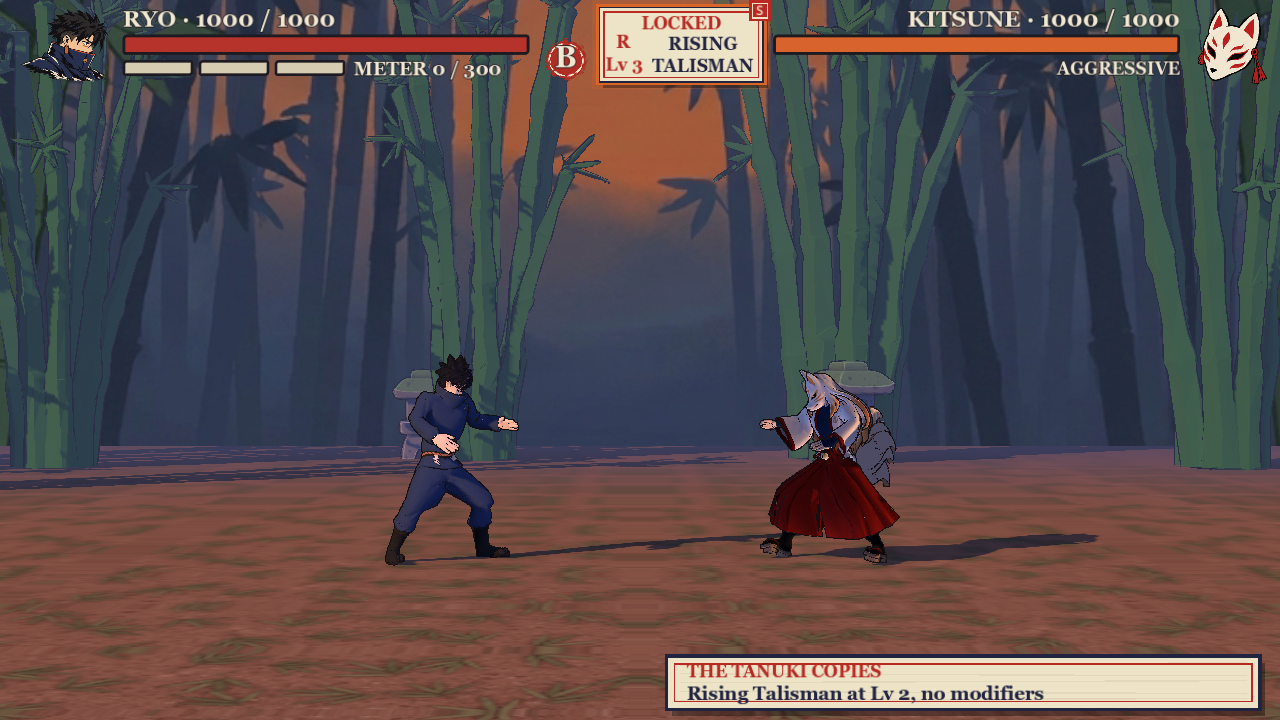
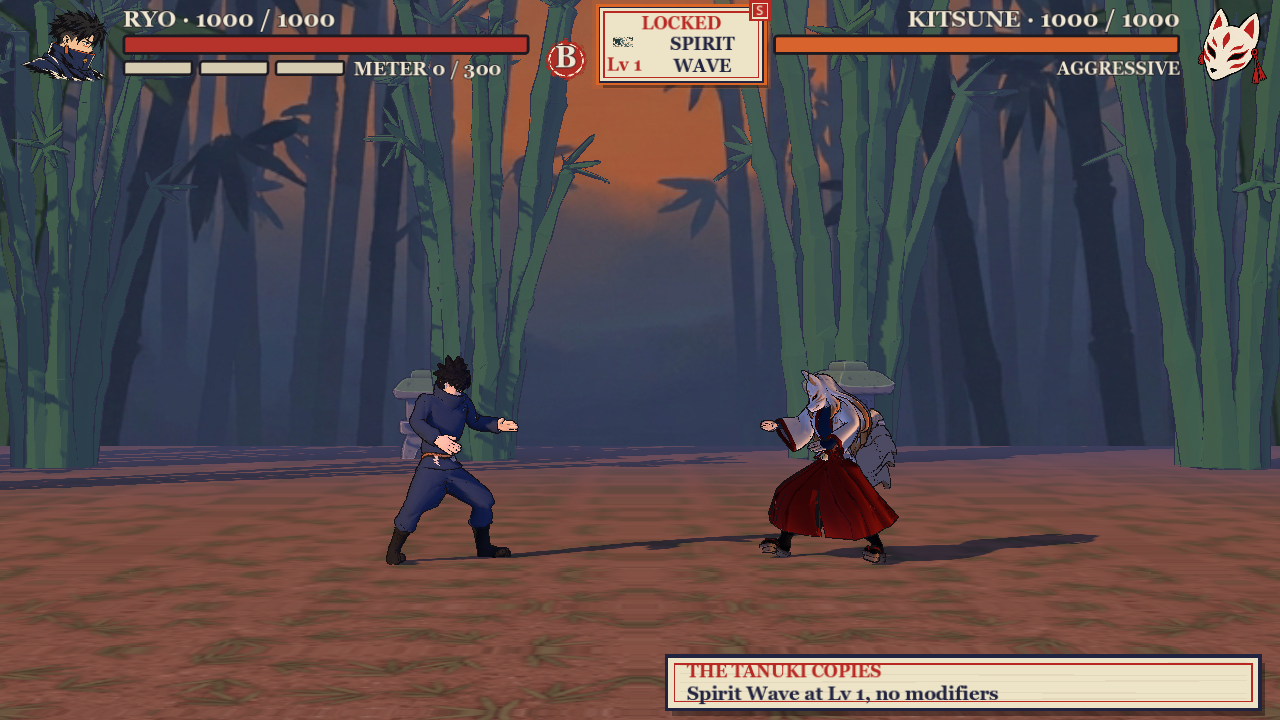
YOK-118-am6-copy-talisman: HUD copy talisman only in the Tanuki fight (AM6, T6)

diff --git a/game/tests/FightHudTests.cs b/game/tests/FightHudTests.cs
@@ -198,15 +198,14 @@ public static class FightHudTests
  """;
 
  [Test]
- public static void CopyTarget_NoRun_ShowsTheGreyFallback(Node runner)
+ public static void CopyTarget_NoRun_IsHidden(Node runner)
  {
   var hud = Load(runner);
   try
   {
    hud.RunView = new SessionHudRunView(null);
    hud.Refresh(new Match());
-   Assert.Equal(CopyTalismanState.None, hud.CopyTarget.State, "no run, no target");
-   Assert.Equal("-", hud.CopyTarget.MoveName, "dash");
+   Assert.True(!hud.CopyTarget.Visible, "AM6, T6: no run, no talisman");
    Assert.True(!hud.TwistStripVisible, "no strip without a run");
   }
   finally { hud.Free(); }
@@ -219,10 +218,10 @@ public static class FightHudTests
   try
   {
    var run = RunState.NewRun(AbilityPool.LoadFixtures(Root));
-   var view = new FakeRunView();
+   var view = new FakeRunView { InTanukiFight = true };
    hud.RunView = view;
    void Show() { view.Copy = CopyRule.Target(run); hud.Refresh(new Match()); }
-   hud.RunView = new FakeRunView { Copy = new CopyTarget(SpecialSlot.A, Named("Spirit Wave"), 1) };
+   hud.RunView = new FakeRunView { InTanukiFight = true, Copy = new CopyTarget(SpecialSlot.A, Named("Spirit Wave"), 1) };
    hud.Refresh(new Match());
    Assert.Equal("SPIRIT WAVE", hud.CopyTarget.MoveName, "a short name is shown exactly");
    hud.RunView = view; hud.CopyTarget.Reset();
@@ -259,7 +258,7 @@ public static class FightHudTests
    Assert.True(s.Enter("a").Ok, "enter a");
    s.Run.LevelUp(SpecialSlot.B); s.Run.LevelUp(SpecialSlot.B); // Lv 3: the copy runs the Lv 2 tuning only (T4)
    hud.Refresh(new Match());
-   Assert.Equal(CopyTalismanState.Defined, hud.CopyTarget.State, "before the lock");
+   Assert.True(!hud.CopyTarget.Visible, "AM6: a yokai duel before the lock shows no talisman");
    Assert.True(!hud.TwistStripVisible, "a plain duel has no strip");
    s.WinFight(700); s.CompleteNode();
    Assert.True(s.Enter("den").Ok, "enter the Tanuki's node");
@@ -328,7 +327,7 @@ public static class FightHudTests
    var font = label.GetThemeFont("font");
    foreach (string n in names)
    {
-    hud.RunView = new FakeRunView { Copy = new CopyTarget(SpecialSlot.A, Named(n), 1) };
+    hud.RunView = new FakeRunView { InTanukiFight = true, Copy = new CopyTarget(SpecialSlot.A, Named(n), 1) };
     hud.Refresh(new Match());
     Assert.Equal(CopyTalisman.NameSize, label.GetThemeFontSize("font_size"), $"{n}: kept at the 720p floor size");
     Assert.True(label.GetLineCount() <= 2, $"{n}: wraps to {label.GetLineCount()} lines");
@@ -341,7 +340,7 @@ public static class FightHudTests
  }
 
  [Test]
- public static void CopyTarget_RestartAndLevelUp_DoNotLeaveAStaleToast(Node runner)
+ public static void CopyTarget_YokaiFightLevelUpsAndRestart_StayHiddenWithNoToast(Node runner)
  {
   var scene = GD.Load<PackedScene>("res://scenes/fight.tscn").Instantiate<FightScene>();
   scene.ExternalDrive = true;
@@ -351,21 +350,87 @@ public static class FightHudTests
    var hud = scene.GetNode<FightHud>("Hud");
    scene.Step(FighterInput.None, FighterInput.None);
    var t = hud.CopyTarget;
-   Assert.Equal(CopyTalismanState.Defined, t.State, "the default view reads the hosting scene's own session");
+   Assert.True(!t.Visible, "AM6, T6: the default view over a yokai fight hides the talisman");
    scene.DemoRun.LevelUp(SpecialSlot.B);
    scene.Step(FighterInput.None, FighterInput.None);
-   Assert.Equal("changed", t.LastEvent, "another special overtakes it");
-   Assert.True(t.ToastText.Length > 0, "toast up");
    scene.DemoRun.LevelUp(SpecialSlot.B);
    scene.Step(FighterInput.None, FighterInput.None);
-   Assert.Equal("levelled", t.LastEvent, "same move, next level");
-   Assert.Equal("", t.ToastText, "a level-up clears the older toast");
+   Assert.True(!t.Visible, "still hidden after level-ups");
+   Assert.Equal("", t.ToastText, "no 'copy target changed' toast in a yokai fight");
+   Assert.Equal("", t.LastEvent, "nothing animates");
    scene.RestartRun();
    scene.Step(FighterInput.None, FighterInput.None);
-   Assert.Equal("", t.LastEvent, "a restart is a fresh first show, not a change");
-   Assert.Equal("", t.ToastText, "and carries no toast");
+   Assert.True(!t.Visible && t.ToastText == "", "a restart changes nothing");
   }
   finally { scene.Free(); }
+ }
+
+ // AM6, T6: the HUD's copy-target talisman shows only in the Tanuki fight.
+ [Test]
+ public static void CopyTarget_HiddenInAYokaiFight_EvenWithATarget(Node runner)
+ {
+  var hud = Load(runner);
+  try
+  {
+   var copy = CopyRule.Target(RunState.NewRun(AbilityPool.LoadFixtures(Root)));
+   hud.RunView = new FakeRunView { Copy = copy };
+   hud.Refresh(new Match());
+   Assert.True(!hud.CopyTarget.Visible, "AM6: a yokai fight shows no copy target");
+   Assert.True(!hud.TwistStripVisible, "and no strip");
+  }
+  finally { hud.Free(); }
+ }
+
+ [Test]
+ public static void CopyTarget_HiddenInAnElderFight_EvenWithATarget(Node runner)
+ {
+  var hud = Load(runner);
+  try
+  {
+   var copy = CopyRule.Target(RunState.NewRun(AbilityPool.LoadFixtures(Root)));
+   hud.RunView = new FakeRunView { ElderFight = true, Copy = copy };
+   hud.Refresh(new Match());
+   Assert.True(!hud.CopyTarget.Visible, "AM6: an elder fight shows no copy target");
+   Assert.True(hud.TwistStripVisible && hud.TwistKicker == "ELDER TWIST", "the elder twist reminder (Y3) still shows");
+  }
+  finally { hud.Free(); }
+ }
+
+ [Test]
+ public static void CopyTarget_ShownLockedInTheTanukiFight(Node runner)
+ {
+  var hud = Load(runner);
+  try
+  {
+   var copy = CopyRule.Target(RunState.NewRun(AbilityPool.LoadFixtures(Root)))!;
+   hud.RunView = new FakeRunView { InTanukiFight = true, CopyLocked = true, Copy = copy };
+   hud.Refresh(new Match());
+   Assert.True(hud.CopyTarget.Visible, "AM6: shown in the Tanuki fight");
+   Assert.Equal(CopyTalismanState.Locked, hud.CopyTarget.State, "T1: the locked copy");
+   Assert.True(IsNameOrItsFit(copy.Data.Name, hud.CopyTarget.MoveName), "names the locked move: " + hud.CopyTarget.MoveName);
+   Assert.Equal($"Lv {copy.Level}", hud.CopyTarget.LevelText, "its level");
+   // leaving the Tanuki fight hides it again
+   hud.RunView = new FakeRunView { Copy = copy };
+   hud.Refresh(new Match());
+   Assert.True(!hud.CopyTarget.Visible, "hidden once the fight is not the Tanuki's");
+  }
+  finally { hud.Free(); }
+ }
+
+ [Test]
+ public static void CopyTarget_HiddenWithANullRun(Node runner)
+ {
+  var hud = Load(runner);
+  try
+  {
+   hud.RunView = new SessionHudRunView(null);
+   hud.Refresh(new Match());
+   Assert.True(!hud.CopyTarget.Visible, "no run: no talisman, no placeholder");
+   hud.RunView = null;
+   hud.Refresh(new Match());
+   Assert.True(!hud.CopyTarget.Visible, "no view at all: no talisman");
+  }
+  finally { hud.Free(); }
  }
 
  [Test]
@@ -375,7 +440,7 @@ public static class FightHudTests
   try
   {
    var run = RunState.NewRun(AbilityPool.LoadFixtures(Root));
-   var view = new FakeRunView { Copy = CopyRule.Target(run) };
+   var view = new FakeRunView { InTanukiFight = true, Copy = CopyRule.Target(run) };
    hud.RunView = view;
    hud.Refresh(new Match());
    run.LevelUp(SpecialSlot.B); view.Copy = CopyRule.Target(run);
@@ -448,7 +513,7 @@ public static class FightHudTests
   {
    var label = Find<Label>(hud, "MoveName");
    label.Size = Vector2.Zero;
-   hud.RunView = new FakeRunView { Copy = new CopyTarget(SpecialSlot.A, Named("Thunderstrike Wave"), 1) };
+   hud.RunView = new FakeRunView { InTanukiFight = true, Copy = new CopyTarget(SpecialSlot.A, Named("Thunderstrike Wave"), 1) };
    hud.Refresh(new Match()); // must return
    Assert.True(hud.CopyTarget.MoveName.Length > 0, "still shows a name");
   }

diff --git a/game/tests/probes/CopyHudProbes.cs b/game/tests/probes/CopyHudProbes.cs
@@ -78,7 +78,7 @@ public static class CopyHudProbes
    var hits = new List<string>();
    foreach (string n in AllNames())
    {
-    hud.RunView = new View { CopyLocked = true, Copy = new CopyTarget(SpecialSlot.A, Named(n), 1) };
+    hud.RunView = new View { InTanukiFight = true, CopyLocked = true, Copy = new CopyTarget(SpecialSlot.A, Named(n), 1) };
     hud.Refresh(new Match());
     Assert.Equal(CopyTalismanState.Locked, t.State, "locked");
     var boxes = NameBoxes(label);
@@ -185,17 +185,18 @@ public static class CopyHudProbes
    var run = RunState.NewRun(AbilityPool.LoadFixtures(Root));
    var states = new (string, View)[]
    {
-    ("none", new View()),
-    ("defined", new View { Copy = CopyRule.Target(run) }),
-    ("locked", new View { Copy = CopyRule.Target(run), CopyLocked = true }),
+    ("none", new View { InTanukiFight = true }),
+    ("defined", new View { InTanukiFight = true, Copy = CopyRule.Target(run) }),
+    ("locked", new View { InTanukiFight = true, Copy = CopyRule.Target(run), CopyLocked = true }),
     ("tanuki", new View { Copy = CopyRule.Target(run), CopyLocked = true, InTanukiFight = true }),
     ("elder", new View { ElderFight = true }),
    };
    foreach (var (name, v) in states)
    {
     hud.RunView = v; hud.Refresh(new Match());
-    Assert.True(t.Visible && t.Modulate.A >= 1f && t.SelfModulate.A >= 1f, $"{name}: plate drawn opaque");
-    foreach (string n in new[] { "Caption", "MoveName", "Level", "IconLetter" })
+    if (name == "elder") Assert.True(!t.Visible, "elder: the talisman is hidden (AM6, T6)");
+    else Assert.True(t.Visible && t.Modulate.A >= 1f && t.SelfModulate.A >= 1f, $"{name}: plate drawn opaque");
+    if (name != "elder") foreach (string n in new[] { "Caption", "MoveName", "Level", "IconLetter" })
     {
      var l = Find<Label>(t, n);
      if (!l.Visible) continue;
@@ -219,7 +220,7 @@ public static class CopyHudProbes
   var hud = Load(runner);
   try
   {
-   hud.RunView = new View(); hud.Refresh(new Match());
+   hud.RunView = new View { InTanukiFight = true }; hud.Refresh(new Match());
    var cap = Find<Label>(hud.CopyTarget, "Caption");
    float ratio = Contrast(cap.GetThemeColor("font_color"), new Color(0.6f, 0.58f, 0.5f));
    float onPaper = Contrast(cap.GetThemeColor("font_color"), FightHud.Paper);
@@ -241,7 +242,7 @@ public static class CopyHudProbes
    var worst = new List<string>();
    foreach (string n in new[] { "Thunderclap", "Thunderstrike", "Hundredfold", "Wandering Thunderstrike", "Shapeshifter", "Pandemonium", "Tsukuyomi-Barrage", "Supercalifragilistic" })
    {
-    hud.RunView = new View { Copy = new CopyTarget(SpecialSlot.A, Named(n), 1) };
+    hud.RunView = new View { InTanukiFight = true, Copy = new CopyTarget(SpecialSlot.A, Named(n), 1) };
     hud.Refresh(new Match());
     int size = label.GetThemeFontSize("font_size");
     if (size * 720f / 1080 < 17) worst.Add($"{n} -> {size}px ({size * 720f / 1080:F1} at 720p)");
@@ -300,7 +301,7 @@ public static class CopyHudProbes
     Assert.Equal(twin.StateHash(), watched.StateHash(), step + ": watched run equals the unwatched twin");
    }
    hud.Refresh(new Match());
-   Assert.Equal(CopyTalismanState.Defined, hud.CopyTarget.State, "defined at start");
+   Assert.True(!hud.CopyTarget.Visible, "AM6: hidden outside the Tanuki fight, so no copy toast or pulse can fire on the way");
    Both(s => s.Enter("a"), "enter a");
    Both(s => s.Run.LevelUp(SpecialSlot.A), "level A (levelled or changed)");
    Both(s => s.Run.LevelUp(SpecialSlot.B), "level B");
@@ -469,7 +470,7 @@ public static class CopyHudProbes
    foreach (string n in names)
    foreach (bool locked in new[] { false, true })
    {
-    hud.RunView = new View { CopyLocked = locked, Copy = new CopyTarget(SpecialSlot.A, Named(n), 1) };
+    hud.RunView = new View { InTanukiFight = true, CopyLocked = locked, Copy = new CopyTarget(SpecialSlot.A, Named(n), 1) };
     hud.Refresh(new Match());
     string shown = label.Text;
     string tag = $"'{n}' locked={locked} -> '{shown.Replace("\n", "|")}'";
@@ -498,7 +499,7 @@ public static class CopyHudProbes
    var label = Find<Label>(hud.CopyTarget, "MoveName");
    foreach (string n in new[] { string.Concat(System.Linq.Enumerable.Repeat("\U0001D504", 30)), string.Concat(System.Linq.Enumerable.Repeat("é", 30)) })
    {
-    hud.RunView = new View { Copy = new CopyTarget(SpecialSlot.A, Named(n), 1) };
+    hud.RunView = new View { InTanukiFight = true, Copy = new CopyTarget(SpecialSlot.A, Named(n), 1) };
     hud.Refresh(new Match());
     string shown = label.Text;
     for (int i = 0; i < shown.Length; i++)
@@ -522,7 +523,7 @@ public static class CopyHudProbes
   {
    var data = Named("x");
    var empty = SpecialLoader.Parse("{\"kind\":\"special\",\"id\":\"hud-empty\",\"name\":\"\",\"input\":{\"kata\":{\"slot\":\"A\"}},\"levels\":{\"1\":{\"frame_data\":" + AbilityPool.LoadFixtures(Root).Special("test-spirit-wave")!.Level1Json + "}}}");
-   hud.RunView = new View { Copy = new CopyTarget(SpecialSlot.A, empty, 1) };
+   hud.RunView = new View { InTanukiFight = true, Copy = new CopyTarget(SpecialSlot.A, empty, 1) };
    hud.Refresh(new Match());
    // Known open: a blank name draws an empty slot with state Defined and no letter badge. Flip to Text.Length > 0 if a fallback is added.
    Assert.Equal("", hud.CopyTarget.MoveName, "blank name stays blank");
@@ -542,8 +543,8 @@ public static class CopyHudProbes
    var run = RunState.NewRun(AbilityPool.LoadFixtures(Root));
    var views = new (string, View)[]
    {
-    ("none", new View()), ("defined", new View { Copy = CopyRule.Target(run) }),
-    ("locked", new View { Copy = CopyRule.Target(run), CopyLocked = true }),
+    ("none", new View { InTanukiFight = true }), ("defined", new View { InTanukiFight = true, Copy = CopyRule.Target(run) }),
+    ("locked", new View { InTanukiFight = true, Copy = CopyRule.Target(run), CopyLocked = true }),
     ("tanuki", new View { Copy = CopyRule.Target(run), CopyLocked = true, InTanukiFight = true }),
    };
    foreach (var (name, v) in views)
@@ -612,7 +613,7 @@ public static class CopyHudProbes
   try
   {
    var target = CopyRule.Target(RunState.NewRun(AbilityPool.LoadFixtures(Root)))!;
-   hud.RunView = new View { Copy = target };
+   hud.RunView = new View { InTanukiFight = true, Copy = target };
    hud.Refresh(new Match());
    string shown = hud.CopyTarget.MoveName;
    GD.Print("PROBE fixture name shown: " + shown.Replace("\n", "|"));

diff --git a/game/tests/CopyHudCapture.cs b/game/tests/CopyHudCapture.cs
@@ -5,7 +5,7 @@ using YokaiFighters.Sim;
 namespace YokaiFighters.Tests;
 
 /// <summary>
-/// Windowed screenshot tool (not a test), YOK-74: the HUD with the copy-target talisman in its states.
+/// Windowed screenshot tool (not a test), YOK-74: the HUD in a yokai, an elder and the Tanuki fight (AM6: the talisman shows only in the last).
 /// Run: godot --path game res://tests/copy_hud_capture.tscn --resolution 1920x1080 -- out=&lt;dir&gt; tag=1080
 /// </summary>
 public partial class CopyHudCapture : Node
@@ -35,16 +35,11 @@ public partial class CopyHudCapture : Node
 		hud.RunView = view;
 		void Tick() { scene.Step(FighterInput.None, FighterInput.None); }
 		Tick();
-		await Snap($"{dir}/hud_copy_none_{tag}.png");
+		await Snap($"{dir}/hud_copy_yokai_hidden_{tag}.png"); // AM6: a yokai fight shows no copy target
 		view.Copy = CopyRule.Target(run); view.ElderFight = true; Tick();
-		await Snap($"{dir}/hud_copy_defined_elder_{tag}.png");
-		run.LevelUp(SpecialSlot.B); view.Copy = CopyRule.Target(run); Tick(); await Wait(0.3);
-		await Snap($"{dir}/hud_copy_changed_{tag}.png");
-		run.LevelUp(SpecialSlot.B); view.Copy = CopyRule.Target(run); Tick(); await Wait(0.9);
-		view.CopyLocked = true; view.ElderFight = false; Tick(); await Wait(0.3);
-		await Snap($"{dir}/hud_copy_locked_{tag}.png");
-		view.InTanukiFight = true; Tick(); await Wait(0.3);
-		await Snap($"{dir}/hud_copy_tanuki_{tag}.png");
+		await Snap($"{dir}/hud_copy_elder_hidden_{tag}.png"); // AM6: nor does an elder fight (twist strip only)
+		view.CopyLocked = true; view.ElderFight = false; view.InTanukiFight = true; Tick(); await Wait(0.3);
+		await Snap($"{dir}/hud_copy_tanuki_{tag}.png"); // AM6, T1: the Tanuki fight shows the locked copy
 		GetTree().Quit();
 	}
 

diff --git a/game/scripts/Fight/FightHud.cs b/game/scripts/Fight/FightHud.cs
@@ -96,7 +96,11 @@ public partial class FightHud : CanvasLayer
 	private void ShowRun()
 	{
 		var run = RunView;
-		_copyTalisman.Apply(run?.Copy, run?.CopyLocked ?? false);
+		// AM6, T6: the copy-target talisman shows only in the Tanuki fight (the locked copy, T1); hidden in yokai and elder fights, and with no run.
+		bool showCopy = run?.InTanukiFight ?? false;
+		_copyTalisman.Visible = showCopy;
+		if (showCopy) _copyTalisman.Apply(run?.Copy, run?.CopyLocked ?? false);
+		else _copyTalisman.Reset();
 		var copy = run?.Copy;
 		bool tanuki = (run?.InTanukiFight ?? false) && copy != null; // nothing locked = nothing to say (the strip stays hidden)
 		_twistStrip.Visible = tanuki || (!(run?.InTanukiFight ?? false) && (run?.ElderFight ?? false));

diff --git a/docs/codebase-map.md b/docs/codebase-map.md
@@ -134,7 +134,7 @@ Pure C# (no Godot), deterministic. Y1/Y2/Y4/P6: P2 plays from a behaviour profil
 | `DebugOverlay.cs` | YOK-22 `CanvasLayer`, added by `FightScene._Ready` only when `OS.IsDebugBuild()`. F1 toggles boxes (red hit, green hurt, yellow throw, blue push), F2 pause/resume, F3 one tick (pauses first if running), F4 flips P1 Kihon/Kata (YOK-23; box labels show each player's scheme); `HandleKey(Key)` for tests. Projects `DebugBoxes` from the Z = 0 plane with `Camera3D.UnprojectPosition`; per-player labels under the HUD. Hook in `FightScene`: `Stepper` property + `Stepper.Filter(_clock.Advance(...))`. ExternalDrive owners just call `Step()`. |
 | `InputDevices.cs` | Minimal device → `FighterInput` mapping (K2 keyboard and pad; rebinding/scheme select is YOK-25). P1 keys WASD + U/I/O punches, J/K/L kicks, Space Special; P2 arrows + numpad 4/5/6, 1/2/3, 0. Pad: d-pad/left stick (0.5 deadzone), X/Y/RB punches, A/B/RT kicks, LB Special. `Read(player)` ORs keyboard and pad `player`. Wired into `FightScene` (YOK-18). |
 | `FightHud.cs` | Panel-free HUD using Ryo portrait, per-opponent portrait lookup and blank burst seal: health bars with "RYO · 720 / 1000" text, Ryo's 3-bar meter and burst seal, K.O./win `Banner`, and a `LoseScreen` (Restart button raises `RestartRequested`, wired to `FightScene.RestartRun`, YOK-48); win banner "Ryo wins". YOK-44: `SetLoseText(title, text)` (wrapped text; `LoseTitle`/`LoseText` for tests); `FightScene.ApplyLoseCard` fills it from `data/story/lose-screen.json` with `{yokai}` = `Opponent`'s display name, keeping the placeholder (warning) if the card is missing. Reads `Match` + `IHudView`, `FightScene.Opponent` and its existing `Temperament` only. Health names use `StoryLibrary.DisplayName`; Kitsune variants use the fox mask, other opponents look for `<id>-portrait.png` (missing art is hidden; Tanuki is never pictured). Floating controls end by y=138 on the 1080p canvas; rice-coloured labels have 6px ink outlines and bars retain 4px dark frames. Live labels fit down to 26px for long names; spent burst greys the seal and replaces B with ×. `tests/FightHudTests.cs` checks full/damaged/zero health, 0/40/140/300 meter, ready/spent burst, opponent identity, design-canvas bounds and projected skeleton jump clearance at both corners and mid-stage (15cm hair/ear margin; rendered mesh silhouettes still need review). |
-| `Ui/CopyTalisman.cs` | YOK-74 (T6, T1, T4): copy-target talisman in the HUD's top-centre gap (x 898-1146, y 10-124; seal top-right; name never under 26 px: long words hyphenate, then end in an ellipsis; `DrawnBounds` = rect + glow + seal + shadow stays inside x 888-1156, y 0-134 (4 px from the burst seal and opponent bar), pinned by tests; 26 px text = the 720p floor). States `None` (grey dash), `Defined` (persimmon glow, name, `Lv n`), `Locked` (caption LOCKED, red seal stamp). `Apply(target, locked)`: same move + higher level = pulse (`LastEvent` "levelled"), another move = bottom-left toast "Copy target: X, Lv n" ("changed"); silent after the lock. Icon via `RewardArt`, else a letter. `FightHud` also shows a bottom-right strip (`TwistStrip`): elder fights = "ELDER TWIST" + placeholder text (twist data is YOK-90); the Tanuki fight = "THE TANUKI COPIES: X at Lv `MoveLevel`, no modifiers" (no likeness; `tanuki` opponent has no portrait). Tests `FightHudTests.CopyTarget_*`, `ElderStrip_*`; capture tool `tests/copy_hud_capture.tscn`. |
+| `Ui/CopyTalisman.cs` | YOK-74, YOK-118 (T6, AM6, T1, T4): copy-target talisman in the HUD's top-centre gap; **shown only in the Tanuki fight** (`FightHud.ShowRun` sets `Visible = IHudRunView.InTanukiFight`; yokai fights, elder fights and a null run hide it entirely and call `Apply` not at all, so no toast or pulse fires there; the gap is left empty, the twist strip is bottom-right) (x 898-1146, y 10-124; seal top-right; name never under 26 px: long words hyphenate, then end in an ellipsis; `DrawnBounds` = rect + glow + seal + shadow stays inside x 888-1156, y 0-134 (4 px from the burst seal and opponent bar), pinned by tests; 26 px text = the 720p floor). States `None` (grey dash), `Defined` (persimmon glow, name, `Lv n`), `Locked` (caption LOCKED, red seal stamp). `Apply(target, locked)`: same move + higher level = pulse (`LastEvent` "levelled"), another move = bottom-left toast "Copy target: X, Lv n" ("changed"); silent after the lock. Icon via `RewardArt`, else a letter. `FightHud` also shows a bottom-right strip (`TwistStrip`): elder fights = "ELDER TWIST" + placeholder text (twist data is YOK-90); the Tanuki fight = "THE TANUKI COPIES: X at Lv `MoveLevel`, no modifiers" (no likeness; `tanuki` opponent has no portrait). Tests `FightHudTests.CopyTarget_*` (talisman-content tests drive a Tanuki view; `_HiddenIn*`, `_ShownLockedInTheTanukiFight`, `_HiddenWithANullRun` pin AM6), `ElderStrip_*`; capture tool `tests/copy_hud_capture.tscn` (yokai, elder, Tanuki). |
 | `Story/StoryLibrary.cs` | YOK-44: kind `story_card` loader (System.Text.Json, no Godot). `StoryCardData` (`FillText`/`FillTitle(yokai, move)`, throws on a used placeholder with no value), `StoryLibrary.Parse/LoadFile/LoadDirectory` (absent folder = empty), indexer by id, `BindingLine(yokai)` (implements `Ui.IStorySource`), `LoseScreen(yokai)`, `DemoComplete(yokai)` (YOK-53), `DisplayName(id)`. `FightScene.StoryDir` / `LoadStory()` point at `data/story/`. |
 | `IHudView.cs` | Read-only `Meter`/`MeterMax`/`BurstAvailable` view; `MatchHudView(match, fighter)` reads them live from the sim (YOK-20). `FightScene._Ready` assigns one over Ryo (P1) to `FightHud.View`; the HUD falls back to one over the match it refreshes with. |
 | `HudRunView.cs` | YOK-74: `IHudRunView` (`CopyLocked`, `Copy` = `CopyTarget?`, `InTanukiFight`, `ElderFight`), read-only; `SessionHudRunView(RunSession?)` answers from `CopyRule.Target(session.Run)` before the lock, `LockedCopy` after it, `RunSession.IsCopyLockNode(Node)` and `Node.Elder`; null session = nothing. `FightHud.RunView` defaults to one over the hosting `FightScene.Session`. No rule here; no `RunSession.cs` change. |
